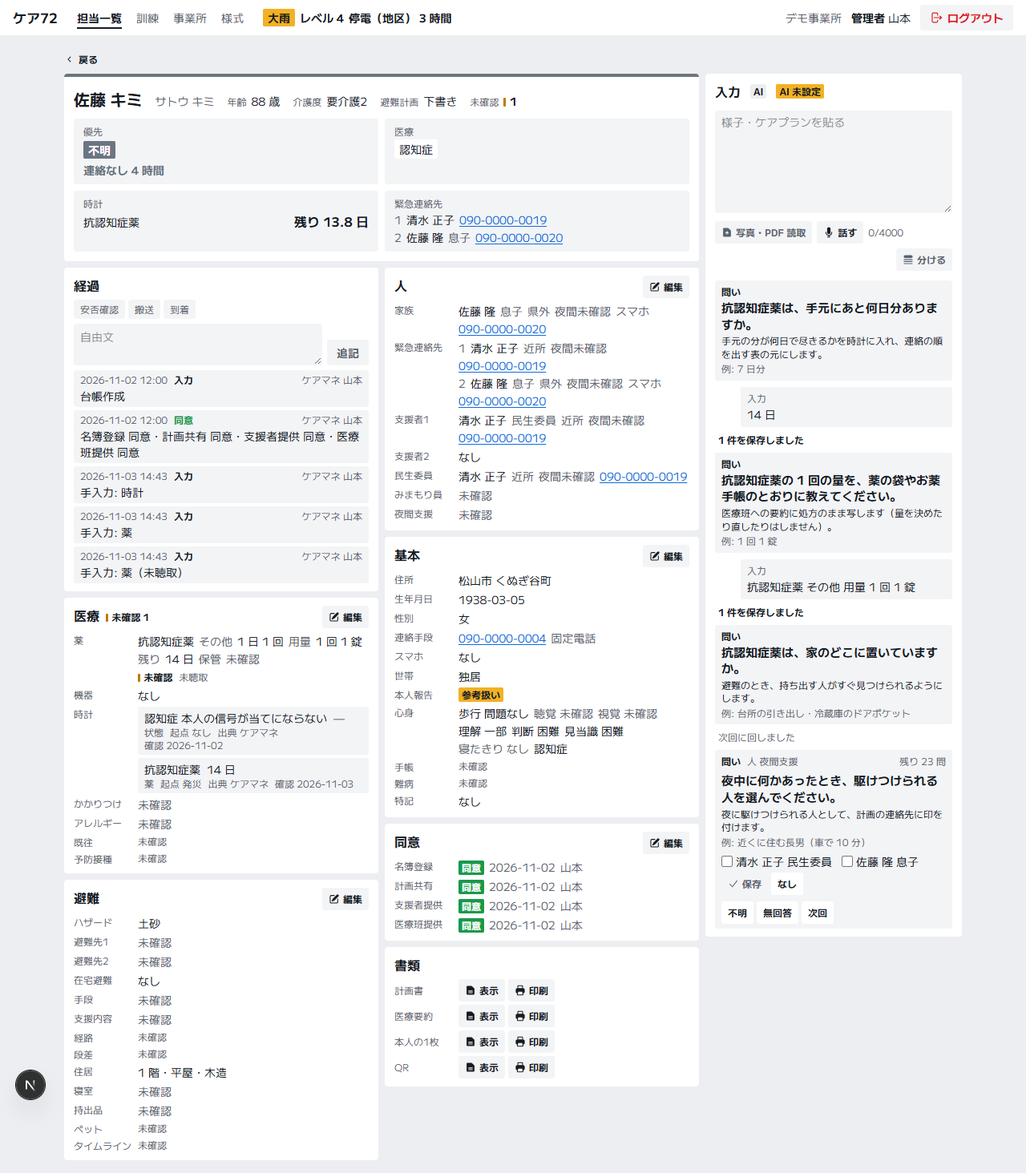
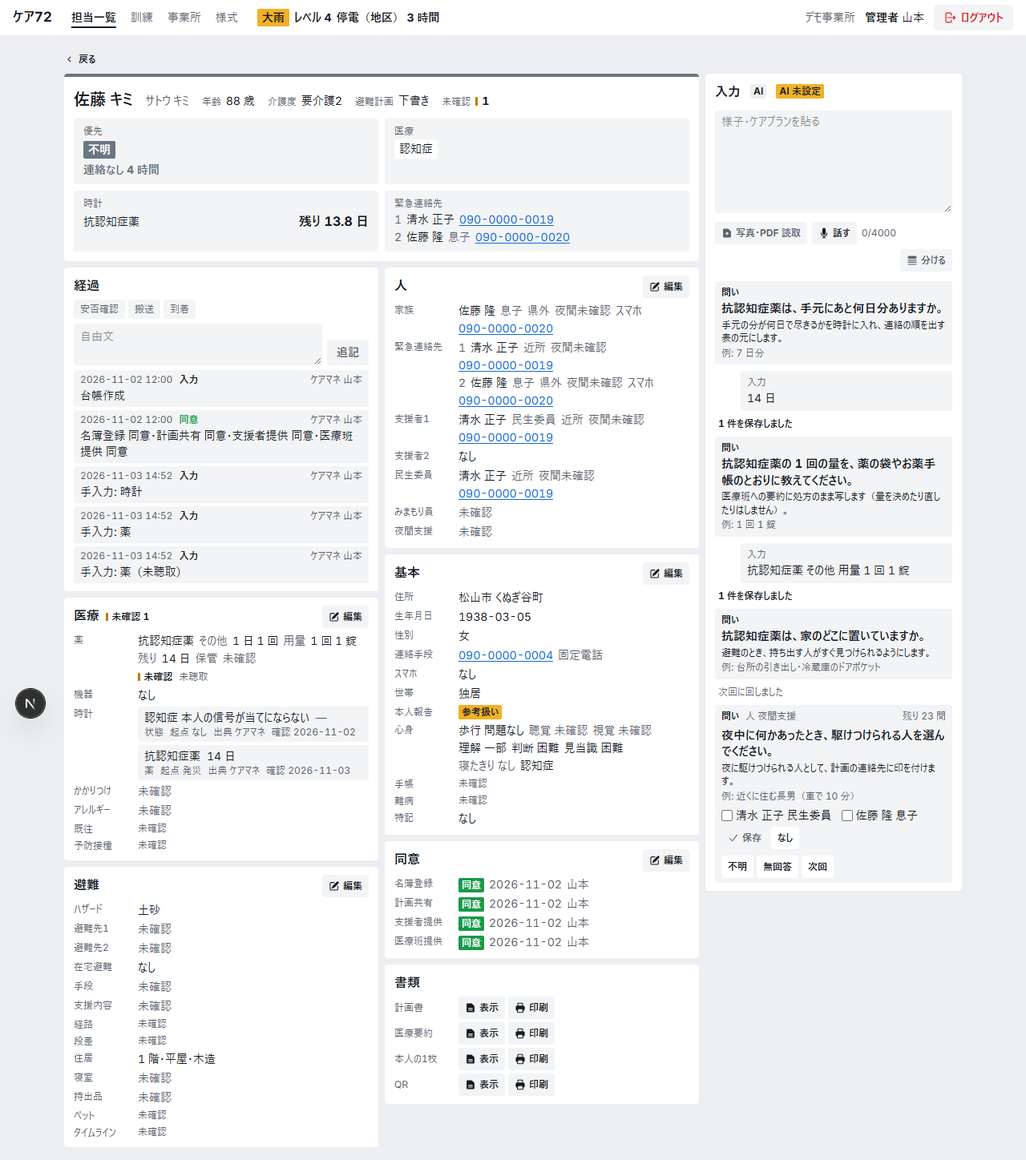
T45: 進み（docs/progress/t45.md）と絵
何を変えたか・会話の流れの形・問いの文の一覧（言葉）・確かめた所・本番の鍵で最初に確かめること・作者への問い。
絵は integrate/t11-t12 を取り込んだあとに撮り直した。

diff --git a/docs/progress/t45.md b/docs/progress/t45.md
@@ -1,0 +1,147 @@
+# T45 入れる欄を AI 専用にし、本人のページを手で直せるように（Opus）
+
+worktree care72-t45、branch task/t45（main 35cc09c から。PR の前に origin/integrate/t11-t12 の 182a0f9 を取り込んだ。衝突なし）。11/3。
+作者の指示は docs/DECISIONS.md「11/3 10:2x 確定」（依頼のときは「11:4x」と呼んでいた節。設計の側が時刻を直した）。
+
+絵: `docs/progress/t45/`（手元の next dev と手元の D1 で、ケアマネ yamamoto。Claude の鍵は無いので右の欄は「AI 未設定」の形）。
+
+- `1280-p04.png` 佐藤 キミ。右の欄（文字・写真と PDF・話す・分ける）と最初の問いの吹き出し、左の各面の右上の「編集」
+- `1280-p04-talk.png` 問いに 2 つ答え（残り 14 日・用量）、1 つ「次回」にしたあとの会話の流れ
+- `1280-p04-edit-evacuation.png` 避難の面を開いて寝室を書いたところ／`1280-p04-after-edit.png` 保存したあと（経過に「ケアマネが直した」）
+- `1280-p01-edit-medical.png` 山田 ハナの医療の面（薬・機器・時計の値と単位・欄）
+- `1280-p03-edit-medical-people.png` 田中 茂の医療（透析先の「確認」）と人の面（連絡先を直す・足す）
+- `375-p04.png` 375px
+
+## 何を変えたか
+
+| 作る物 | 変えた物 | commit |
+| --- | --- | --- |
+| 3 問いを詳しく | lib/intake/ask.ts の問いを、何を聞くか（text）・なぜ要るか（why）・答えの例（example）の 3 つに。欄の表の 35 欄（FIELD_QUESTIONS）と、時計・薬・夜間・支援者の問い（GENERATED_QUESTIONS）。Claude は問いを作らないまま。医療の見直し（medical-reviewer）の指摘で、機器は内蔵の電池だけを聞く、予備ボンベ（電源で動く機器の予備の時計）は時間で、透析は「次の透析は何日後か」で聞く（前は透析にも「何日分ありますか」が出ていた・予備ボンベの値は時間なのに日で聞いていた）、なぜの文が色や順位を約束しない（「表の元にします」）、既往は「医師から言われている病名」 | d7bbc52 |
+| 4 編集の保存 | /api/intake/save に `edit`（手で直した）を足した。edit のときだけ、埋まった欄に加えて薬（回数・用量・保管・区分。空にした所は消す）・機器・ハザード・連絡先（空の文字は消す・夜間を未確認に戻せる）・時計（値の入った時計も）を上書きでき、同意（consents を記録した人と時刻で）と時計の頼り先の確認（clocks.depends_check と経過の「時計確認」の行。lib/ledger-marks.ts の clockCheckEntry）も変えられる。経過の本文は「ケアマネが直した: 欄…」（payload に edit）。AI の分け方・問いの答えの保存には上書き（欄のほか）・同意・確認を混ぜない（forbidden）。版の確かめは今まで通り | 49ed886 |
+| 1 写真・PDF を読む | /api/intake/read と lib/intake/read.ts。写真（JPEG・PNG）か PDF を 1 枚ずつ受け取り、Opus が台帳の欄に分け、文の分け方と同じ差分（変更点）を返す。形と上限は様式の読み取りの toFormFile（5 MB・中身の頭で形を決める）。写真・PDF は保存しない。用途は ledger_input のままモデルだけ Opus（用途を足すと ai_calls の CHECK を作り直す migration が要るため）。決まり（EXTRACT_RULES）は文の分け方と共有 | cb40e4c |
+| 1・2 右の欄 | components/person/Intake.tsx を作り直した。文字の欄（大きめ、6 行）→「写真・PDF 読取」（選ぶ、5 枚まで、1 枚ずつ送る）と小さなマイク「話す」（Button sm。止めると文字が欄に残るだけで、前のように止めたら自動で分けることはしない。対応していないブラウザは出さない）と主のボタン「分ける」。手入力のタブと components/person/IntakeManual.tsx・lib/intake/manual.ts は消した | 227fc55 |
+| 2 会話の流れ | 右の欄の下に「やりとり」。入れた物（入力。貼った文は頭の 140 字）→ AI の吹き出し（AI の印、「7 項目に分けました（医療 3・避難 2）」、写真なら「〇〇.jpg を読みました。…」）→ 変更点（今の IntakeChanges。外す・直す・保存はそのまま）→「N 件を保存しました」→ 問い（何を・なぜ・例と「残り N 問」）→ 答え → … 。空欄が無くなるまで次の問いが出て、「次回」で飛ばせる。AI の失敗は理由と「再試行」の吹き出し。流れは下に伸びる（内側のスクロールなし） | 227fc55 |
+| 4 面の編集 | components/person/SectionEdit.tsx と lib/intake/edit.ts。本人のページの医療・避難・人・基本・同意の面の右上に「編集」（Button sm、鉛筆のアイコン）。押すとその面だけ入力欄に変わり、下に「保存」（main）「取消」（quiet）と件数。医療は薬（直す・足す）・機器（中身と回数、足す）・時計（値と単位）・頼り先の確認（「確認」「確認取消」）・アレルギーなどの欄。避難はハザード（深さ・足す）と欄。人は連絡先（種類・続柄・名前・電話・夜間・備考を直す、足す）とみまもり員。基本は欄と特記の書き足し。同意は 4 つの同意の状態。書類と経過の面は編集しない（書類の行は T47）。開いたときの値と版で保存し、先にほかの保存があれば「競合」で閉じて読み直す。IntakeManual の欄の部品（FieldInput）を面の上でも使えるように onPanel を足した | 227fc55 |
+| 見直し | 画面の見直し（screen-checker）の直し: 保存の行を緑にしない（緑は無事の意味）、分ける・保存・再試行・確認にアイコン、「確認取消」、「追加」の見出し、時計の名前を折り返す | 4185f89 |
+
+本人のページ（components/person/PersonView.tsx）は SectionPanel だけ変えた（edit を受けたら面を SectionEdit で包む。書類の行・DocumentRow は触っていない）。アイコン（鉛筆・マイク・止める・書類の矢印・分ける・再試行・確認）は components/ui を T44 が直しているので components/person/icons.ts に置いた。取り込んだあとに components/ui/Icon.tsx へ移してよい。
+
+## 会話の流れの形
+
+```
+[入力]          （右寄せ）貼った文の頭 / ファイル名
+[AI] 7 項目に分けました（医療 3・人 2・避難 2）
+  変更点 AI     （項目ごとに 今 → 新しい、外す・修正・保存・取消）
+1 件を保存しました
+[問い] 医療 ワーファリン 用量                残り 19 問
+  ワーファリンの 1 回の量を、薬の袋やお薬手帳のとおりに教えてください。
+  医療班への要約に処方のまま写します（量を決めたり直したりはしません）。
+  例: 1 回 1 錠
+  [        ] 保存   不明 無回答 次回
+[入力]          ワーファリン 抗凝固薬 用量 1 回 1 錠
+1 件を保存しました
+[問い] …（空欄が無くなるまで）
+空欄はありません
+```
+
+- AI の印は Claude の出力（分けた数の吹き出し・変更点・失敗）にだけ付けた。問いは定型の文（Claude は作らない）なので印を付けていない（下の問い 2）
+- 流れはこの画面を開いている間だけ（ページを読み直すと消える）。保存のあとは router.refresh で左の面と問いの順が新しくなる
+- 会話の言葉は lib/labels.ts の INTAKE_SAYS（定型）。数は Claude の返した変更点を数えるだけ
+
+## 問いの文の一覧（言葉）
+
+設計の側が Gemini に通して採否を決める。〇〇 は薬・物の名前が入る所。答えの形（選ぶ・数・文）は前のまま。
+
+| 欄 | 何を（問いの文） | なぜ | 例 |
+| --- | --- | --- | --- |
+| 機器の内蔵電池（例 酸素） | 酸素は、停電したあと内蔵の電池だけで何時間使えますか。 | 停電からの時計に入れ、連絡の順を出す表の元にします。 | 例: 4 時間（機器の説明書や業者に聞いた値） |
+| 予備（例 酸素 予備ボンベ） | 酸素 予備ボンベは、今の使い方で何時間分ありますか。 | 停電からの時計に入れ、連絡の順を出す表の元にします。 | 例: 8 時間（ボンベの本数と業者に聞いた値から） |
+| 透析 次の回まで | 次の透析は何日後ですか（通っている施設の予定のとおり）。 | 発災からの時計に入れ、透析先へ連絡する順を出す表の元にします。 | 例: 2 日後（月・水・金に通う） |
+| 薬・物の残り（〇〇） | 〇〇は、手元にあと何日分ありますか。 | 手元の分が何日で尽きるかを時計に入れ、連絡の順を出す表の元にします。 | 例: 7 日分 |
+| 薬の回数（〇〇） | 〇〇は、1 日に何回、いつ使いますか（処方のとおり）。 | 処方の回数と時間を、計画と医療班への要約に写します。 | 例: 1 日 2 回 朝・夕食後 |
+| 薬の用量（〇〇） | 〇〇の 1 回の量を、薬の袋やお薬手帳のとおりに教えてください。 | 医療班への要約に処方のまま写します（量を決めたり直したりはしません）。 | 例: 1 回 1 錠 |
+| 薬の保管（〇〇） | 〇〇は、家のどこに置いていますか。 | 避難のとき、持ち出す人がすぐ見つけられるようにします。 | 例: 台所の引き出し・冷蔵庫のドアポケット |
+| 夜間支援 | 夜中に何かあったとき、駆けつけられる人を選んでください。 | 夜に駆けつけられる人として、計画の連絡先に印を付けます。 | 例: 近くに住む長男（車で 10 分） |
+| 支援者1 | 避難のとき本人を手伝う人は誰ですか。続柄と、何を手伝えるかを書いてください。 | 計画の避難支援者として載せ、訓練で連絡がつくかを確かめます。 | 例: 隣の家の人。声かけと車いすを押すのを手伝える |
+| アレルギー | 薬や食べ物で、合わない物（アレルギー・食べてはいけない物）はありますか。 | 避難所の食事や、医療班が薬を出すときに伝えます。 | 例: ペニシリン・そば（無ければ「なし」） |
+| 既往 | 医師から言われている病名を教えてください（今治療中の物と、前の物）。 | 医療班への要約に、言われたとおりの病名で載せます。 | 例: 高血圧・心不全 |
+| 予防接種 | 受けた予防接種と、その時期を教えてください。 | 避難所で感染症がはやったとき、医療班が確かめます。 | 例: インフルエンザ 2026 年 10 月・肺炎球菌 |
+| 避難先1 | 市が指定する避難所のうち、本人が行く所はどこですか。 | 計画書の避難先 1 に載せ、そこまでの道のりを確かめます。 | 例: 近くの小学校の体育館 |
+| 避難先2 | 避難所のほかに、早めに身を寄せる所はありますか。 | 避難所で過ごすのが難しいとき、先に移る所として計画に載せます。 | 例: 市内に住む長女の家 |
+| 在宅避難 | 災害のときは家に留まる（在宅避難）と、本人・家族と決めていますか。 | 家に留まるなら、備えの物と見回りに行く人を計画に書きます。 | 例: あり（浸水の区域の外で、2 階に上がれる） |
+| 手段 | 避難所まで、どうやって移りますか。 | 手伝う人の数と、車や車いすの用意を計画に書きます。 | 例: 家族の車・車いすを押して歩く |
+| 支援内容 | 避難のとき、手伝う人に何をしてもらいますか（いくつでも）。 | 支援者に頼む事として計画に書き、訓練で確かめます。 | 例: 声掛けと移動介助 |
+| 経路 | 避難所までの道のりを教えてください。 | 浸水や崖のそばを通らない道かを確かめ、計画書に載せます。 | 例: 県道を北へ 300 m、川の橋は渡らない |
+| 段差 | 家の出入りの段差・階段と、エレベーターの有無を教えてください。 | 運び出すのに人手や道具が要るかを決めます。 | 例: 玄関に 30 cm の段差、2 階へは階段だけ |
+| 居室階 | 本人は建物の何階で暮らしていますか。 | 浸水のとき上の階へ移れるかと、運び出す手間を見ます。 | 例: 1 |
+| 階数 | 建物は何階建てですか。 | 浸水の深さと比べて、上の階へ逃げる余地を見ます。 | 例: 2 |
+| 構造 | 建物は木造・鉄骨・鉄筋のどれですか。 | 計画書の建物の欄に載せます。 | 例: 木造 |
+| 築年 | 建物が建った年を西暦で教えてください。 | 計画書の建物の欄に載せます。 | 例: 1978 |
+| 寝室 | 本人が寝ている部屋は、家のどこですか。 | 夜の災害で、駆けつけた人がすぐ本人の所へ行けるようにします。 | 例: 1 階 奥の和室 |
+| 持出品 | 避難のとき持ち出す物を教えてください。 | 持ち出し品の一覧として、計画と本人の 1 枚に載せます。 | 例: 薬・お薬手帳・予備の電池・眼鏡 |
+| ペット | 一緒に暮らしているペットはいますか。種類と数を教えてください。 | ペットと一緒に入れる避難先かを確かめます。 | 例: 小型犬 1 匹（いなければ「なし」） |
+| タイムライン | 災害のときの動きを時間の順に書いた表（マイ・タイムライン）を作っていますか。 | 作っていれば計画と合わせ、無ければ次の訪問で一緒に作ります。 | 例: あり（紙） |
+| みまもり員 | 地域のみまもり員はついていますか。 | 発災時に様子を見に行ける人として、連絡の順に入れます。 | 例: あり（月に 1 回来る） |
+| 性別 | 本人の性別を教えてください。 | 避難所の部屋割りや着替えの配慮と、医療班への要約に使います。 | 例: 女 |
+| 世帯 | 本人は誰と暮らしていますか。 | 災害が起きたとき、家の中で最初に気づける人がいるかを見ます。 | 例: 独居 |
+| 固定電話 | 家に固定電話はありますか。 | 発災時に安否を聞く手段を決めます。 | 例: あり |
+| 携帯 | 本人は携帯電話を持っていますか。 | 発災時に安否を聞く手段を決めます。 | 例: なし |
+| メール | 本人はメールを読んだり送ったりできますか。 | 発災時に知らせを送る手段を決めます。 | 例: なし |
+| スマホ | 本人はスマホを自分で使えますか。 | 発災時に本人が安否のボタンを押せるかを決めます。 | 例: 閲覧のみ（知らせは読めるが、ボタンは押せない） |
+| 介護度 | 要介護度（要支援を含む）を教えてください。 | 手伝う人の数と避難先の選び方の目安にします。 | 例: 要介護3 |
+| 歩行 | 本人は一人で歩けますか。 | 避難のとき、手を貸す人や車いすが要るかを決めます。 | 例: 一部（杖で家の中は歩ける） |
+| 聴覚 | 本人は呼びかけの声や電話の音が聞こえますか。 | 避難の呼びかけや電話が届くか、直接行く人が要るかを決めます。 | 例: 一部（大きな声なら聞こえる） |
+| 視覚 | 本人は目で見て周りの様子が分かりますか。 | 暗い中や知らない場所で、一人で動けるかを見ます。 | 例: 問題なし |
+| 理解 | 避難の話をしたとき、本人に分かってもらえますか。 | 呼びかけだけで動けるか、そばで手伝う人が要るかを決めます。 | 例: 一部（短い言葉なら分かる） |
+| 判断 | 危ないとき、本人が自分で逃げると決められますか。 | 誰が声をかけ、付き添うかを決めます。 | 例: 困難（家族が決めている） |
+| 見当識 | 本人は今日の日付や、今いる場所が分かりますか。 | 避難先で落ち着いて過ごせるか、付き添いが要るかの目安にします。 | 例: 一部（日付があいまい） |
+| 寝たきり | 本人は一日の多くをベッドの上で過ごしていますか（寝たきり）。 | 運び出すのに人手と道具が要るかを決めます。 | 例: あり |
+| 認知症 | 本人は医師から認知症と言われていますか。 | 本人の「大丈夫」の返事だけに頼らず、様子を見に行く人を決めます。 | 例: なし |
+| 手帳 | 障害者手帳を持っていれば、種類と等級を教えてください。 | 福祉避難所へ移るときの確かめに使います。 | 例: 身体障害者手帳 2 級（無ければ「なし」） |
+| 難病 | 国や県の指定難病の受給者証を持っていれば、病名を教えてください。 | 受給者証の病名を、医療班への要約に載せます。 | 例: パーキンソン病（無ければ「なし」） |
+
+## 画面の言葉の一覧（足した物）
+
+lib/labels.ts の INTAKE_LABELS の末尾と INTAKE_SAYS。Gemini に通すならこれも。
+
+- ボタン・見出し: 分ける・写真・PDF 読取・読取中・話す・停止・編集・保存・取消・確認・確認取消・薬追加・連絡先追加・特記追加・追加・やりとり・入力・問い・残り N 問・再試行
+- 失敗: 形式外・容量超過・空ファイル（前からの AI 未設定・上限到達・AI 失敗・AI 不可・競合・入力不備）
+- 会話（INTAKE_SAYS）: 「N 項目に分けました（医療 3・避難 2）」「本人のページに入る事は見つかりませんでした」「〇〇.jpg を読みました」「N 件を保存しました」「変わった所はありませんでした」「変更点を取り消しました」「次回に回しました」「「不明」と記録しました」「空欄はありません」
+- 経過の本文: 「ケアマネが直した: 欄…」（lib/intake/save.ts の TIMELINE_SOURCES。前からの「AI の分け方、人が確認」「手入力」と並ぶ）
+
+## 確かめた所
+
+- `npm test` 1364 件・`npm run typecheck` が通る（integrate/t11-t12 を取り込んだあと）。足したテスト（lib/intake/intake.test.ts と lib/intake/edit.test.ts）:
+  - 問いの文: 欄の表の欄は問わない欄のほか全部に文がある・表に余分が無い、種の 10 人と台帳が空の人の全部の問いが「。」で終わる何を・なぜ（。で終わる）・例（「例: 」で始まる）を持ち、「診断」「判定」「重症」「危険」「病気がわかる」が無い
+  - 編集の保存: 埋まった欄・薬・機器・連絡先・時計の上書き、経過に「ケアマネが直した」が 1 行（AI の印なし）、版違いは競合、AI の保存・問いの答えには上書き・同意・確認を混ぜられない、頼り先の確認で時計と経過（時計確認）、同意は記録した人と時刻、薬の空にした所が消えて区分から中断注意の印を付け直す
+  - 面の変更の作り方（lib/intake/edit.ts）: 直さなければ 0、直した面の物だけ、空にした欄は送らない、連絡先は直した所だけ、同意
+  - 写真・PDF の読み取り（偽物の AI）: Opus を 1 回、書類は添え物（image → 文）、本人は仮名化した台帳だけ（氏名・生年月日・電話が送った物に無い）、system に「氏名・住所・電話番号・生年月日は書かない」、返った文の電話は伏せ字に戻して印が付く。形・上限・空の物は読まない
+  - 画面（react-dom/server）: 右の欄に文字・写真と PDF・分ける、手入力のタブが無い、問いの何を・なぜ・例と残りの数、内側のスクロールが無い、マイクの無いブラウザ（サーバーの描画は Web Speech が無いのと同じ）で「話す」が出ない、AI 未設定で「分ける」が押せず問いには答えられる、会話の吹き出しの AI の印（分けた数には付き、問いには付かない）、面の右上の「編集」、医療の面の時計と頼り先の確認、同意の欄
+- 手元の dev（puppeteer-core と手元の Chrome、ケアマネ yamamoto、パスワードは処理の中で作った使い捨て）: 問いに答える → 保存 → 次の問い、次回、医療・人・避難の面の編集を開く、避難の面で寝室を書いて保存 → 面に出て経過に「ケアマネが直した」。撮ったあと `npm run db:fresh` で戻した
+- 医療の見直し（medical-reviewer、問いの文）と画面の見直し（screen-checker）を通した。採らなかった指摘は下の問い
+
+## 本番の鍵で最初に確かめること
+
+手元に Claude の鍵が無いので、次は偽物の AI でしか通していない。
+
+1. 写真・PDF 読取: お薬手帳・ケアプランの写真（架空の物）を 1 枚読ませ、AI の吹き出しと変更点が出るか、氏名・電話が（氏名）（電話）の伏せ字で返り「伏せ字」の印が付くか。Opus は ledger_input の時間切れ（120 秒）に収まるか（収まらなければ用途の時間を延ばすか form_read の設定を使う）
+2. 分ける: 貼った文が分かれて「N 項目に分けました（…）」の数が変更点の数と合うか
+3. 文で答える問い（支援者1）: 答えが問いの欄に分かれるか
+4. 話す: Chrome で押して話し、止めると欄に文が残り（自動で分けない）、そのあと「分ける」で通るか
+
+## 作者への問い
+
+1. **写真・PDF の中の個人情報**: 写真・PDF は伏せられないので、ケアプラン・お薬手帳の氏名・住所・電話はそのまま Claude（Opus）に渡る。今は「書かない」と指示し、返った文の名前・電話を伏せ字に戻すだけ。CLAUDE.md の「Claude には仮名で渡す」と食い違う。(a) このまま（画面に「写真の氏名は Claude に渡る」と出すか、読む前に確かめる）、(b) 読む前にブラウザで写真の一部を塗って隠す道具を足す、(c) 写真・PDF の読み取りは様式（空の書式）だけに戻す、のどれにするか
+2. 問いの吹き出しに AI の印を付けていない（問いは定型の文で Claude の出力でないため）。依頼の「AI の印付きの吹き出し」に合わせて付けるか
+3. 画面の見直しで採らなかった物: (a) なぜ・例を常に出すのは「常設の説明文」に当たる、の指摘（依頼の「1 問で分かる詳しい文」を優先して残した）、(b) 会話の「1 件を保存しました」などの文を 2〜4 字（保存済）にする、の指摘（依頼の「保存しました」の流れを優先）、(c)「写真・PDF 読取」が 8 字、(d) 375px で入れる欄が本人のページの上に来る（T03 からの並び）。どれか直すか
+4. 編集で消すこと（欄を空にする・薬や連絡先の行を外す）は入れていない。要るか
+5. 会話の流れは画面を開いている間だけ。経過のように残すか
+6. 写真・PDF の読み取りの用途を ledger_input のままモデルだけ Opus にした（ai_calls に用途を足すと表を作り直す migration が要る）。用途を分けて数えたいか
+
+## 触っていない物
+
+様式・紙面・地図・訓練・アンケート・ログイン、components/ui（T44）、PersonView の書類の行（T47）、lib/forms（form-read.ts を読むだけ）。docs/PROGRESS.md は触っていない。
+
+## 気付いた事
+
+- `npm test` を全部流すと、lib/person.test.ts・lib/forms/matsuyama.test.ts・lib/forms/own-sheet.test.ts が 1 回だけ時間切れで落ちた（単独では通る。取り込んだあとの全部の実行では 1364 件全部通った）。重い印刷のテストと並ぶときの時間の問題で、この変更の物ではない
